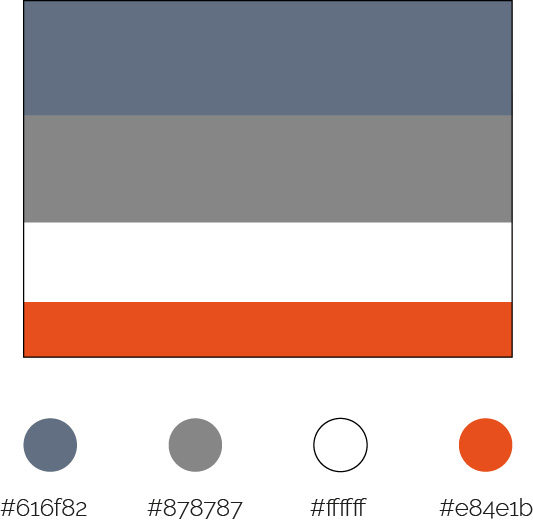
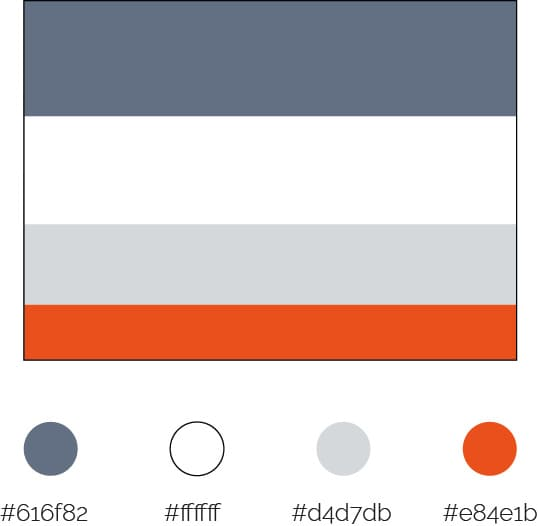
update color scheme README

diff --git a/README.md b/README.md
@@ -406,7 +406,7 @@ The SizeMeApp color scheme is carefully chosen to create a clean, modern, and us
 
 #616f82 (Muted Blue) – Used for the header, footer, and headings, this color establishes a professional and trustworthy feel. Blue is often associated with reliability, making it an ideal choice for a tool focused on accuracy in sizing.
 
-#878787 (Neutral Grey) – The primary background color, grey adds subtle depth while maintaining a neutral, sophisticated look. It helps separate sections without being too visually dominant.
+#d4d8dc (Neutral Grey) – The primary background color, grey adds subtle depth while maintaining a neutral, sophisticated look. It helps separate sections without being too visually dominant.
 
 #ffffff (White) – Applied as a secondary background color, ensuring a clean and spacious layout. White provides contrast, improving readability and enhancing the minimalist aesthetic.
 
